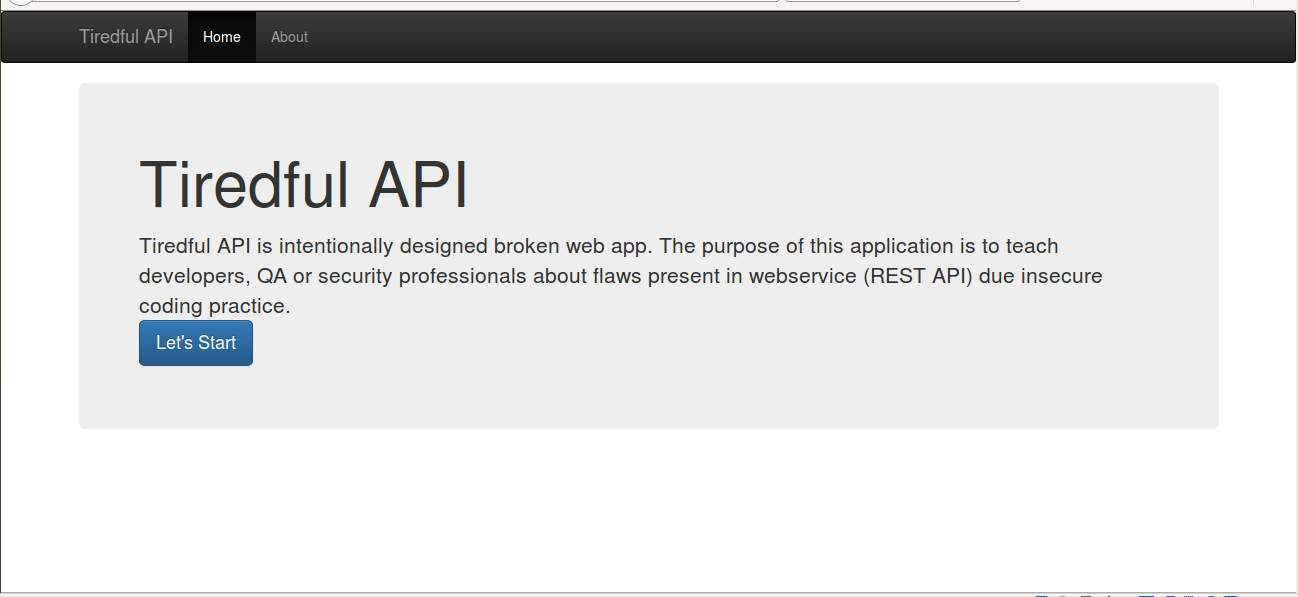
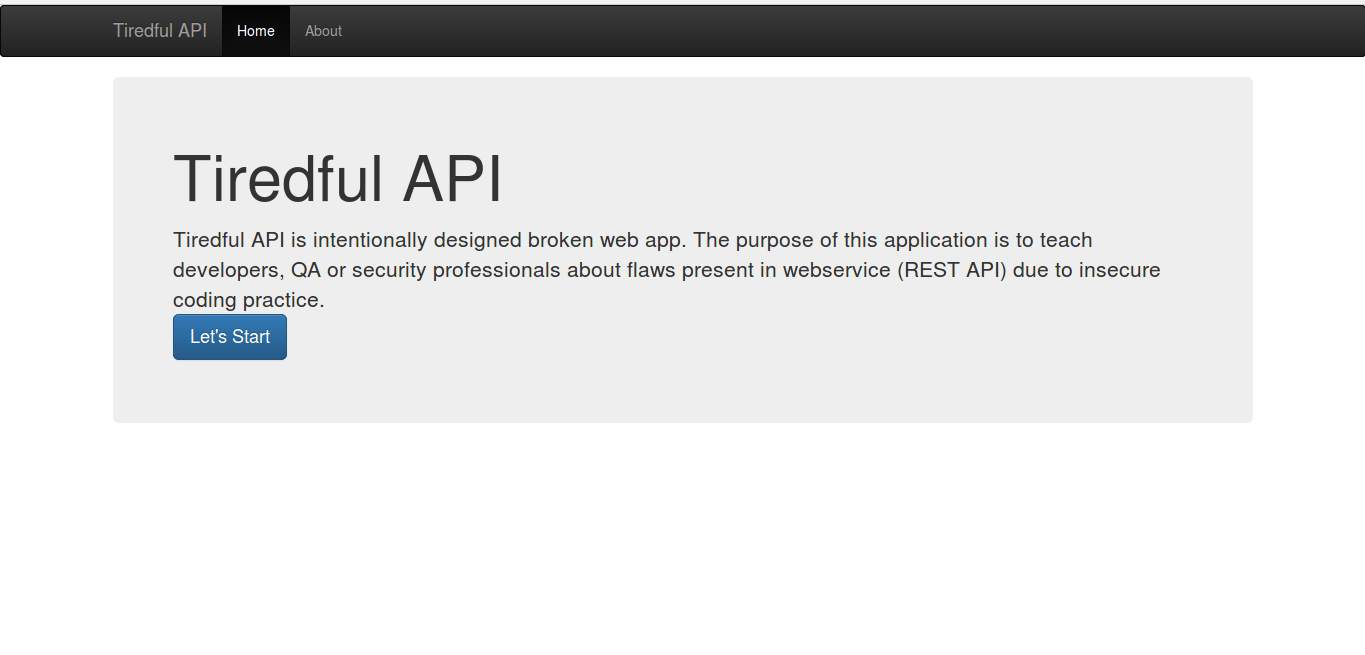
Intro updated

Changed region(s): [[0.0924, 0.2111, 0.8629, 0.6332], [0.0, 0.0, 1.0, 0.1206], [0.0, 0.9648, 1.0, 1.0]]

diff --git a/Tiredful-API/intro/templates/intro/index.html b/Tiredful-API/intro/templates/intro/index.html
@@ -16,7 +16,7 @@
 {% block content %}
 <div class="jumbotron">
         <h1>Tiredful API</h1>
-        <p>Tiredful API is intentionally designed broken web app. The purpose of this application is to teach developers, QA  or security professionals about flaws present in webservice (REST API) due insecure coding practice.
+        <p>Tiredful API is intentionally designed broken web app. The purpose of this application is to teach developers, QA  or security professionals about flaws present in webservice (REST API) due to insecure coding practice.
 
           <br>
           <a href="scenario" class="btn btn-lg btn-primary">Let's Start</a>

diff --git a/Tiredful-API/intro/templates/intro/scenarios.html b/Tiredful-API/intro/templates/intro/scenarios.html
@@ -18,7 +18,7 @@
 
 <p>
   TiredFul API is a web app intentionally developed to be insecure.
-  The purpose of the app to teach developers, QA  or security professionals about flaws present in webservice (REST API) due insecure coding practice.
+  The purpose of the app to teach developers, QA  or security professionals about flaws present in webservice (REST API) due to insecure coding practice.
   Following are the scenarios implemented.
   <ol>
     <li>

diff --git a/README.md b/README.md
@@ -1,6 +1,6 @@
 ### What is Tiredful API?
 
-Tiredful API is intentionally designed broken app. The aim of this web app is to teach developers, QA  or security professionals about flaws present in webservice (REST API) due insecure coding practice.
+Tiredful API is intentionally designed broken app. The aim of this web app is to teach developers, QA  or security professionals about flaws present in webservice (REST API) due to insecure coding practice.
 
 ![Tiredful API image](./Tiredful-API.jpg)
 
